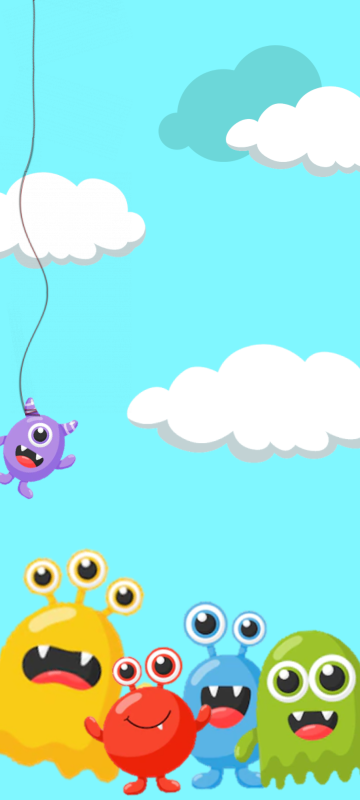
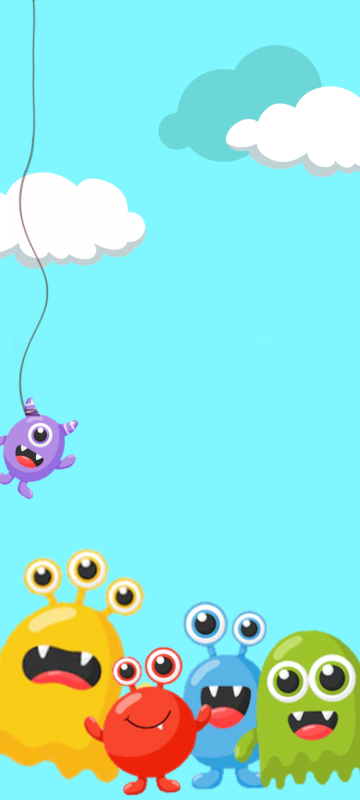
more animation and audio

Changed region(s): [[0.3361, 0.4062, 1.0, 0.5938]]

diff --git a/lib/main.dart b/lib/main.dart
@@ -59,6 +59,7 @@ class _MyHomePageState extends State<MyHomePage> {
   late AudioPlayer player;
   final SpringController springController =
       SpringController(initialAnim: Motion.play);
+  bool reverse = true;
 
   @override
   void initState() {
@@ -94,8 +95,6 @@ class _MyHomePageState extends State<MyHomePage> {
 
   @override
   Widget build(BuildContext context) {
-    // AnimStatus stat = AnimStatus.forward;
-
     return Scaffold(
       body: Center(
         child: InkWell(
@@ -107,6 +106,7 @@ class _MyHomePageState extends State<MyHomePage> {
           },
           child: Stack(
             children: [
+              //image
               SizedBox(
                 width: MediaQuery.of(context).size.width,
                 height: MediaQuery.of(context).size.height,
@@ -115,9 +115,20 @@ class _MyHomePageState extends State<MyHomePage> {
                   fit: BoxFit.fill,
                 ),
               ),
+              //text
+              const Align(
+                alignment: Alignment(0, 0),
+                child: Image(
+                  height: 170,
+                  image: AssetImage('assets/images/mm white.png'),
+                  fit: BoxFit.fill,
+                ),
+              ),
+
+              //jumping monster
               Spring.translate(
-                beginOffset: Offset(0, 0),
-                endOffset: Offset(0, -40),
+                beginOffset: const Offset(0, 0),
+                endOffset: const Offset(0, -30),
                 child: const Align(
                   alignment: Alignment(0.94, 0.55),
                   child: Image(
@@ -127,13 +138,19 @@ class _MyHomePageState extends State<MyHomePage> {
                   ),
                 ),
                 // curve: Curves.bounceInOut,
-                delay: Duration(milliseconds: 1000),
-                animDuration: Duration(milliseconds: 1000),
+                delay: const Duration(milliseconds: 1500),
+                animDuration: const Duration(milliseconds: 800),
                 animStatus: (AnimStatus status) {
-                  if (status == AnimStatus.completed)
+                  if (status == AnimStatus.completed) {
                     setState(() {
-                      springController.play(motion: Motion.reverse);
+                      springController.play(
+                        motion: Motion.reverse,
+                        curve: Curves.bounceInOut,
+                      );
+                      Timer(const Duration(milliseconds: 800),
+                          () => Motion.pause);
                     });
+                  }
 
                   print("Status: $status");
                 },

diff --git a/lib/HomePage/option.dart b/lib/HomePage/option.dart
@@ -1,4 +1,5 @@
 import 'package:flutter/material.dart';
+import 'package:spring/spring.dart';
 
 class Option extends StatelessWidget {
   Option({
@@ -7,12 +8,14 @@ class Option extends StatelessWidget {
     required this.color,
     required this.text,
     required this.ontap,
+    this.audioPath = "",
   }) : super(key: key);
 
   final String path;
   final String text;
   final Color color;
   final Function() ontap;
+  final String audioPath;
 
   @override
   Widget build(BuildContext context) {
@@ -21,17 +24,32 @@ class Option extends StatelessWidget {
       child: Row(
         mainAxisAlignment: MainAxisAlignment.center,
         children: [
-          SizedBox(
-            height: 130,
-            width: 130,
-            child: Image(
-              image: AssetImage(path),
-              fit: BoxFit.fill,
+          //monster
+          Spring.bubbleButton(
+            child: SizedBox(
+              height: 130,
+              width: 130,
+              child: Image(
+                image: AssetImage(path),
+                fit: BoxFit.fill,
+              ),
             ),
+            onTap: () {},
+            animDuration: Duration(seconds: 1), //def=500m mil
+            bubbleStart: .8, //def=0.0
+            bubbleEnd: .9, //def=1.1
+            animStatus: (AnimStatus status) {
+              print(status);
+            },
+            curve: Curves.linear, //Curves.elasticOut
+            delay: Duration(milliseconds: 0), //def=0
           ),
+
           const SizedBox(
             width: 5,
           ),
+
+          //card
           InkWell(
             child: SizedBox(
               width: 180,
